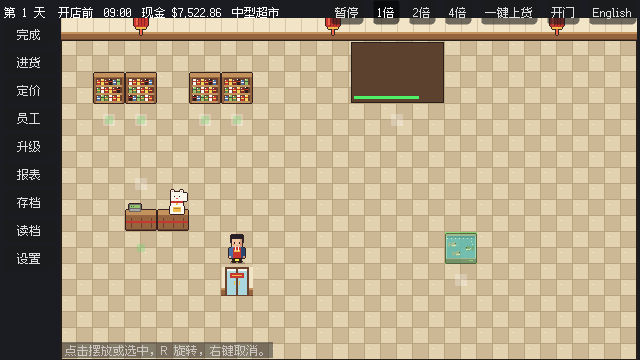
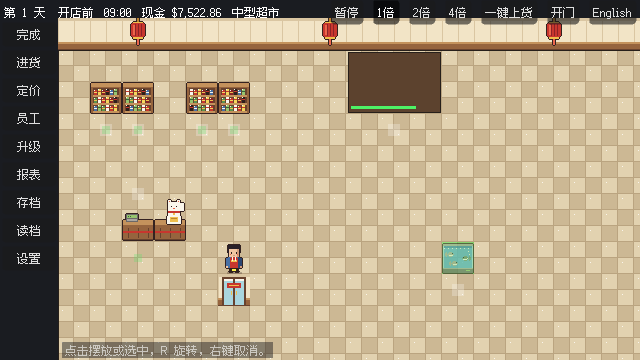
Retake M9 screenshots on the bigger stage 3 floor, with a scrolled view

diff --git a/game/scripts/Dev/ScreenshotTour.cs b/game/scripts/Dev/ScreenshotTour.cs
@@ -392,6 +392,14 @@ public partial class ScreenshotTour : Node
             Hud.Retranslate();
             Store.DebugHover = TankCells[0];
         });
+        Step("17-camera-scrolled-to-far-corner", () =>
+        {
+            TranslationServer.SetLocale("zh");
+            Hud.Retranslate();
+            Hud.CloseAllPanels();
+            var size = Sim.Layout.Size;
+            Camera.CenterOn(new GridPoint(size.W - 1, size.H - 1));
+        });
     }
 
     private bool HasDeadThatKeeps(int tank) =>
